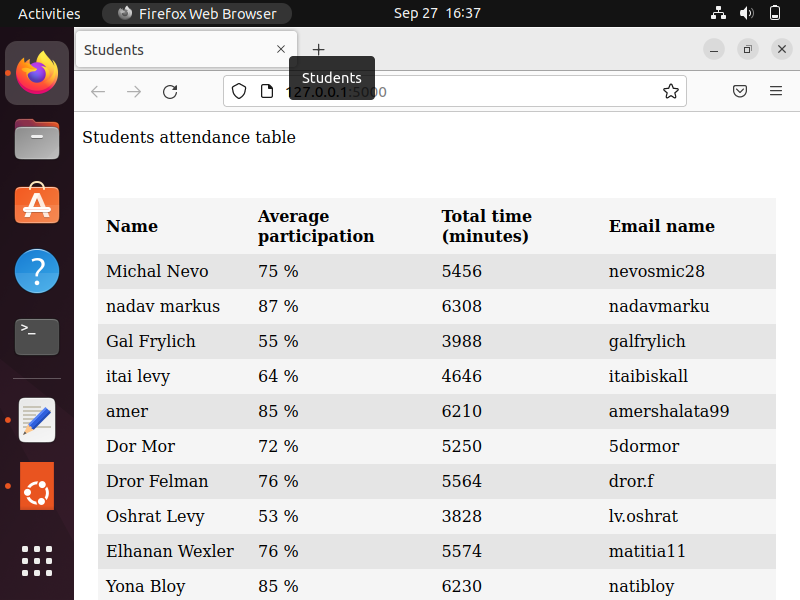
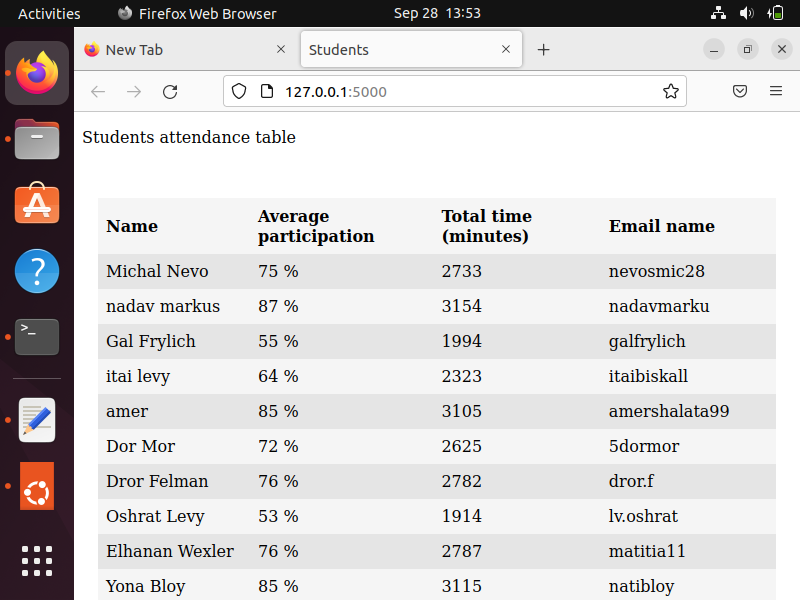
insert csv file only once

diff --git a/app/app.py b/app/app.py
@@ -9,25 +9,34 @@ import csv
 app = Flask(__name__)
 
 
-def insert_csv_to_db(path_to_csv, connection):
+def insert_csv_to_db(path_to_csv, file_num, connection):
     """
         Insert csv rows into 'csv_table' in database.
-        :param path_to_csv: a path to one of the csv file
-        :param connection: mysql connection object (created in db_connection)
+        In order not to reinsert a file that has already been inserted into the table, I check it with a query.
+        :param: path_to_csv: a path to one of the csv file
+        :param: file_num: csv file name
+        :param: connection: mysql connection object (created in db_connection)
     """
-    with open(path_to_csv, newline='', encoding='utf-16') as csvfile:
-        spamreader = csv.reader(csvfile, delimiter='\t')
-        # skip header
-        next(spamreader, None)
-        for row in spamreader:
-            Meeting_Name, Meeting_Start_Time_str, Meeting_End_Time_str, Name, Attendee_Email, Join_Time_str, Leave_Time_str, Attendance_Duration_str, Connection_Type = row
-            Meeting_Start_Time, Meeting_End_Time, Join_Time, Leave_Time, Attendance_Duration = parse_times(
-                Meeting_Start_Time_str, Meeting_End_Time_str, Join_Time_str, Leave_Time_str, Attendance_Duration_str)
-            sql = "INSERT IGNORE INTO csv_table (`Meeting_Name`,`Meeting_Start_Time`,`Meeting_End_Time`, `Name`,`Attendee_Email`,`Join_Time`, `Leave_Time`, `Attendance_Duration`, `Connection_Type`) VALUES (%s, %s, %s, %s, %s, %s, %s, %s, %s)"
-            val = (Meeting_Name, Meeting_Start_Time, Meeting_End_Time, Name, Attendee_Email, Join_Time, Leave_Time, Attendance_Duration, Connection_Type)
+    cursor = connection.cursor()
+    check_if_file_exists = "SELECT * FROM csv_table WHERE File_Name LIKE {}".format(file_num)
+    cursor.execute(check_if_file_exists)
+    file_in_db = cursor.fetchall()
+    if len(file_in_db) == 0:
+        with open(path_to_csv, newline='', encoding='utf-16') as csvfile:
+            spamreader = csv.reader(csvfile, delimiter='\t')
+            # skip header
+            next(spamreader, None)
+            for row in spamreader:
+                Meeting_Name, Meeting_Start_Time_str, Meeting_End_Time_str, Name, Attendee_Email, Join_Time_str, Leave_Time_str, Attendance_Duration_str, Connection_Type = row
+                Meeting_Start_Time, Meeting_End_Time, Join_Time, Leave_Time, Attendance_Duration = parse_times(
+                    Meeting_Start_Time_str, Meeting_End_Time_str, Join_Time_str, Leave_Time_str, Attendance_Duration_str)
+                sql = "INSERT IGNORE INTO csv_table (`File_Name`,`Meeting_Name`,`Meeting_Start_Time`,`Meeting_End_Time`, `Name`,`Attendee_Email`,`Join_Time`, `Leave_Time`, `Attendance_Duration`, `Connection_Type`) VALUES (%s, %s, %s, %s, %s, %s, %s, %s, %s, %s)"
+                val = (file_num, Meeting_Name, Meeting_Start_Time, Meeting_End_Time, Name, Attendee_Email, Join_Time, Leave_Time, Attendance_Duration, Connection_Type)
 
-            connection.cursor().execute(sql, val)
-            connection.commit()
+                cursor.execute(sql, val)
+                connection.commit()
+    else:
+        print('{} file is already in db '.format(file_num))
 
 
 def parse_times(start_, end_, join_, leave_, duration_):
@@ -54,13 +63,13 @@ def csv_files_handler(connection):
         :param connection: mysql connection object (created in db_connection
     """
     csv_files = sftp_get_files()
-    print("CSV FILES:")
-    print(csv_files)
+    print("GOT CSV FILES")
 
     for file_name in csv_files:
         file_path = 'static/files/{}'.format(file_name)
-        insert_csv_to_db(file_path, connection)
-    print("Done !")
+        file_name = file_name.split('-')[1]
+        file_num = file_name.split('.')[0]
+        insert_csv_to_db(file_path, file_num, connection)
 
 
 def create_students_list_csv(connection):

diff --git a/app/calculate_attendance.py b/app/calculate_attendance.py
@@ -45,6 +45,7 @@ def get_data(meeting_data):
     :param csv_data: list of tuples
     :return: pd.DataFrame sorted by the join times and the maximal overall login time in the file
     """
+
     # create DataFrame using csv data
     df = pd.DataFrame(meeting_data, columns=[ROOM_NAME, ROOM_START, ROOM_FINISH, NAMES, EMAILS, JOIN_TIME, LEAVE_TIME, OVERALL_TIME, PLATFORM])
     # calculate maximal overall login time in the file:
@@ -301,7 +302,7 @@ def filter_db_fetch(db_fetch):
                 new_record = new_record + (val.strftime("%m-%d-%Y %H:%M:%S"),)
             else:
                 new_record = new_record + (val,)
-        new_db_fetch.append(new_record[1:])
+        new_db_fetch.append(new_record[2:])
     return new_db_fetch
 
 
@@ -328,18 +329,18 @@ def calculate_attendance(db_fetch):
 
 if __name__ == '__main__':
 
-    '''
-    demo_db_fetch = [(1496, "Avichay Har Tov's Personal Room", datetime.datetime(2022, 9, 21, 15, 45, 31),
+    """
+    demo_db_fetch = [(1496, "20220803171241", "Avichay Har Tov's Personal Room", datetime.datetime(2022, 9, 21, 15, 45, 31),
                  datetime.datetime(2022, 9, 21, 20, 6, 10), 'gal frylich', 'galfrylich@gmail.com',
                  datetime.datetime(2022, 9, 21, 16, 8, 23), datetime.datetime(2022, 9, 21, 16, 11, 17), '3',
-                 'Mobile app'), (1497, "Avichay Har Tov's Personal Room", datetime.datetime(2022, 9, 21, 15, 45, 31),
+                 'Mobile app'), (1497, "20220803171241",  "Avichay Har Tov's Personal Room", datetime.datetime(2022, 9, 21, 15, 45, 31),
                                  datetime.datetime(2022, 9, 21, 20, 6, 10), 'Yossi Bengaev', 'yossibenga@gmail.com',
                                  datetime.datetime(2022, 9, 21, 19, 8, 49), datetime.datetime(2022, 9, 21, 19, 9, 52),
-                                 '2', 'Desktop app'), (1498, "Avichay Har Tov's Personal Room", datetime.datetime(2022, 9, 22, 15, 45, 31),
+                                 '2', 'Desktop app'), (1498, "20220803171241",  "Avichay Har Tov's Personal Room", datetime.datetime(2022, 9, 22, 15, 45, 31),
                                  datetime.datetime(2022, 9, 22, 20, 6, 10), 'Keren', 'Keren@gmail.com',
                                  datetime.datetime(2022, 9, 22, 19, 8, 49), datetime.datetime(2022, 9, 22, 19, 9, 52),
                                  '2', 'Desktop app')]
-    '''
+    """
     calculate_attendance(db_fetch)
 
 

diff --git a/app/sftp_connection.py b/app/sftp_connection.py
@@ -1,17 +1,16 @@
 import pysftp
-
-sftpHost = '185.164.16.144'
-sftpPort = 22
-userName = 'michaln'
-password = 'misH2911'
+import os
 
 
 def sftp_get_files():
-    """ this code will actually blindly accept any host key (cnopts.hostkeys = None), which is a security flaw."""
+    """ 
+    Connect via sftp and download the csv files to static/files/ directory.
+    This code will actually blindly accept any host key (cnopts.hostkeys = None), which is a security flaw.
+    """
     cnopts = pysftp.CnOpts()
     cnopts.hostkeys = None
-    with pysftp.Connection(host=sftpHost, username=userName, password=password, cnopts=cnopts) as sftp:
-        print("Connection succesfully established … ")
+    with pysftp.Connection(host=os.environ.get("SFTP_HOST"), username=os.environ.get("SFTP_USER"), password=os.environ.get("SFTP_PASSWORD"), cnopts=cnopts) as sftp:
+        print("Connection sftp succesfully established … ")
         print(sftp.pwd)
         # change to a remote directory
         sftp.cwd('../../var/tmp/csv_files/')

diff --git a/README.md b/README.md
@@ -1,3 +1,6 @@
 # Flask-Docker
 
+## For this project I used MYSQL database and Flask python for communicating with the database server, process the data and for rendering the html to the browser
+
+
 <img src="app/screen-shots/table.png" width="300">
